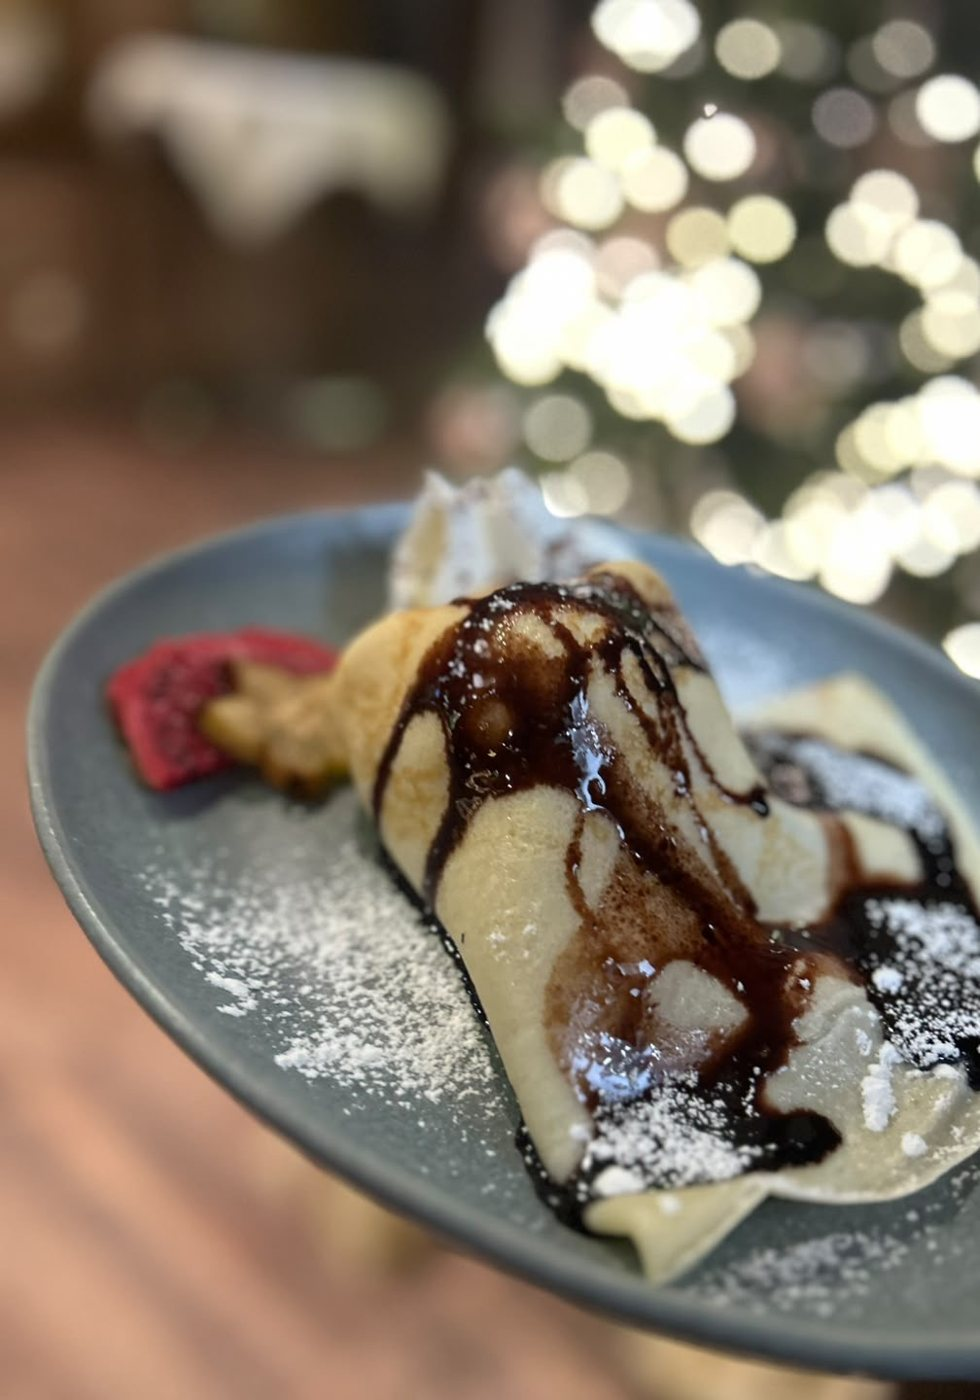
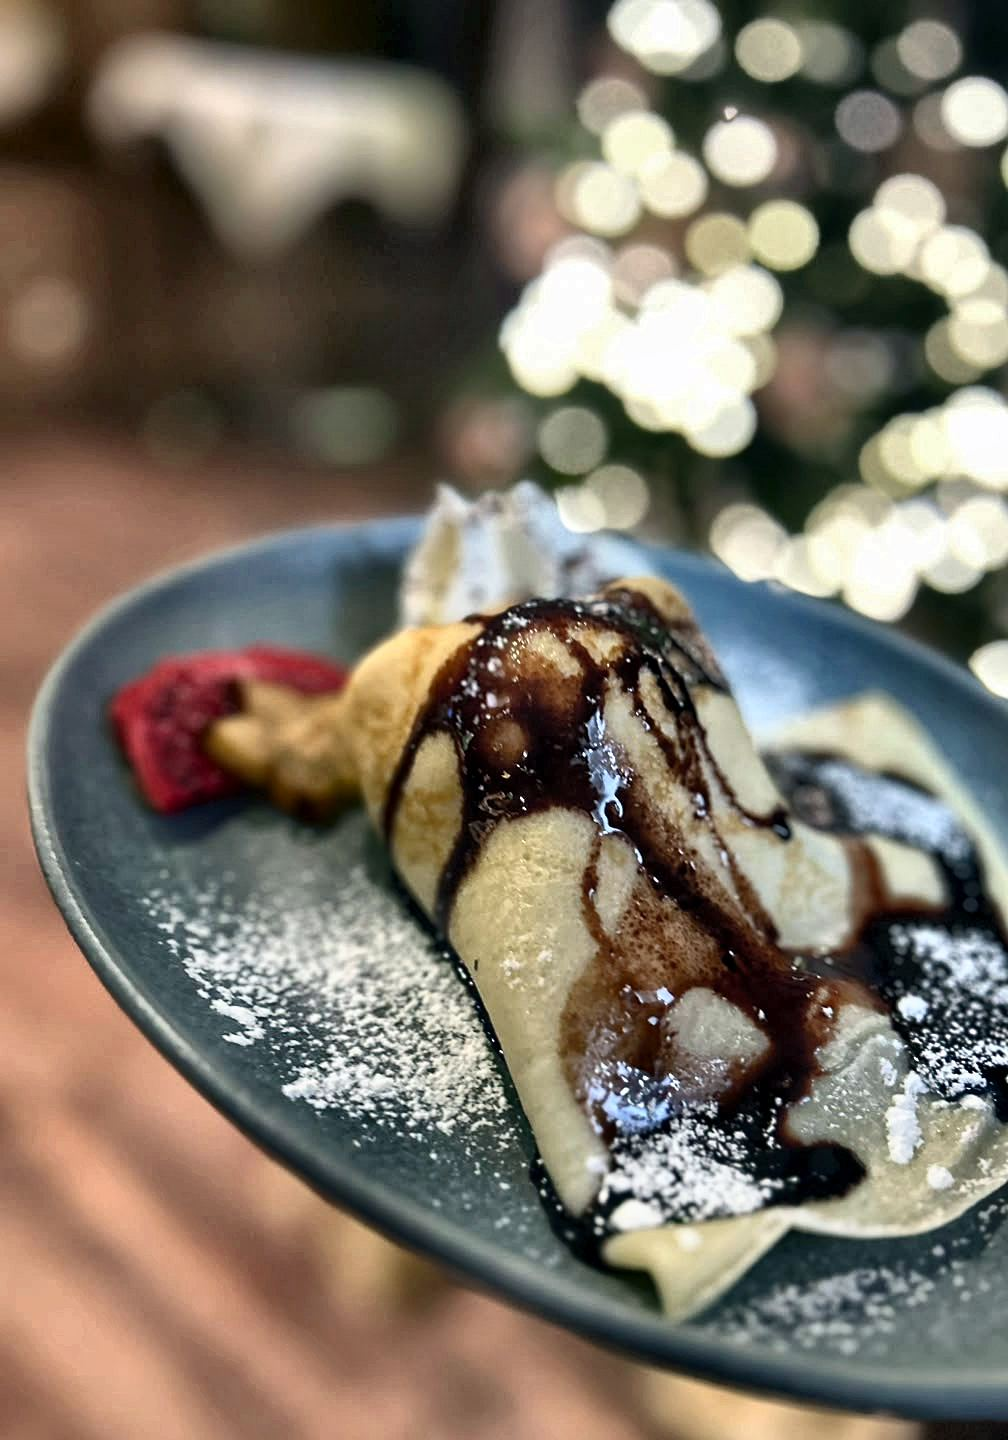
feat: Pitch-Demo landrestaurant-zur-langst online (vorschau/)

diff --git a/vorschau/landrestaurant-zur-langst/fotos.html b/vorschau/landrestaurant-zur-langst/fotos.html
@@ -197,31 +197,31 @@ h1,h2{font-family:var(--display);font-weight:400;font-variation-settings:'opsz' 
     <figure><img src="bilder/galerie/teich-baum-quer.jpg" width="1100" height="825" loading="lazy"
       alt="Das Landrestaurant vom gegenüberliegenden Ufer, gerahmt von einer alten Linde"></figure>
 
-    <figure><img src="bilder/galerie/saal-gedeckt.jpg" width="1400" height="1050" loading="lazy"
+    <figure><img src="bilder/galerie/saal-gedeckt.jpg" width="1100" height="825" loading="lazy"
       alt="Der Saal mit eingedeckten Tischen, weißen Decken und grünen Servietten"></figure>
 
     <figure><img src="bilder/galerie/steak-butter.jpg" width="908" height="1195" loading="lazy"
       alt="Steak mit Kräuterbutter, angerichtet auf hellem Teller"></figure>
 
-    <figure><img src="bilder/galerie/terrasse-tag.jpg" width="1400" height="1050" loading="lazy"
+    <figure><img src="bilder/galerie/terrasse-tag.jpg" width="1100" height="825" loading="lazy"
       alt="Die überdachte Terrasse bei Tag, mit Olivenbaum im Kübel und Blick ins Grüne"></figure>
 
     <figure><img src="bilder/galerie/fontaene-weit.jpg" width="1100" height="825" loading="lazy"
       alt="Die Fontäne im Langst-Teich, dahinter das Fachwerkhaus"></figure>
 
-    <figure><img src="bilder/galerie/desserts-drei.jpg" width="950" height="1400" loading="lazy"
+    <figure><img src="bilder/galerie/desserts-drei.jpg" width="1100" height="1622" loading="lazy"
       alt="Drei Teller mit Schokoküchlein, Vanilleeis und frischen Erdbeeren"></figure>
 
     <figure><img src="bilder/galerie/kamin-neu.jpg" width="1100" height="1467" loading="lazy"
       alt="Der Kaminofen vor der Natursteinwand, darüber die alten Deckenbalken"></figure>
 
-    <figure><img src="bilder/galerie/kaffee-am-teich.jpg" width="1050" height="1400" loading="lazy"
+    <figure><img src="bilder/galerie/kaffee-am-teich.jpg" width="1100" height="1467" loading="lazy"
       alt="Eine Tasse Kaffee auf der Terrassenbrüstung, dahinter der Teich mit der Fontäne"></figure>
 
     <figure><img src="bilder/galerie/teich-baum-hoch.jpg" width="1100" height="1467" loading="lazy"
       alt="Blick vom Ufer über den Teich auf das Haus, im Vordergrund der Stamm einer Linde"></figure>
 
-    <figure><img src="bilder/galerie/theke.jpg" width="1400" height="788" loading="lazy"
+    <figure><img src="bilder/galerie/theke.jpg" width="1100" height="619" loading="lazy"
       alt="Die Theke im Gastraum, mit Holzvertäfelung und Sitzecke"></figure>
 
     <figure><img src="bilder/galerie/fenster-fontaene.jpg" width="1100" height="1467" loading="lazy"
@@ -233,10 +233,10 @@ h1,h2{font-family:var(--display);font-weight:400;font-variation-settings:'opsz' 
     <figure><img src="bilder/galerie/haus-vom-ufer.jpg" width="1100" height="825" loading="lazy"
       alt="Das Haus mit dem gläsernen Anbau, gespiegelt im ruhigen Wasser"></figure>
 
-    <figure><img src="bilder/galerie/terrasse-nacht.jpg" width="1050" height="1400" loading="lazy"
+    <figure><img src="bilder/galerie/terrasse-nacht.jpg" width="1100" height="1467" loading="lazy"
       alt="Die Terrasse am Abend unter der beleuchteten Überdachung"></figure>
 
-    <figure><img src="bilder/galerie/kuchenvitrine.jpg" width="1050" height="1400" loading="lazy"
+    <figure><img src="bilder/galerie/kuchenvitrine.jpg" width="1100" height="1467" loading="lazy"
       alt="Die Kuchenvitrine mit mehreren Kuchen auf Glasetagen"></figure>
 
     <figure><img src="bilder/galerie/tisch-fenster-2.jpg" width="1100" height="1467" loading="lazy"
@@ -245,19 +245,19 @@ h1,h2{font-family:var(--display);font-weight:400;font-variation-settings:'opsz' 
     <figure><img src="bilder/galerie/wasserlauf.jpg" width="1100" height="1467" loading="lazy"
       alt="Die Wasserbecken vor dem Haus, mit Springbrunnen und Trittplatten"></figure>
 
-    <figure><img src="bilder/galerie/steak-kroketten.jpg" width="1050" height="1400" loading="lazy"
+    <figure><img src="bilder/galerie/steak-kroketten.jpg" width="1100" height="1467" loading="lazy"
       alt="Steak in heller Rahmsoße mit Kroketten und Tomate"></figure>
 
     <figure><img src="bilder/galerie/haus-ufer-2.jpg" width="1100" height="825" loading="lazy"
       alt="Das Landrestaurant am Ufer des Langst-Teichs"></figure>
 
-    <figure><img src="bilder/galerie/pfannkuchen.jpg" width="980" height="1400" loading="lazy"
+    <figure><img src="bilder/galerie/pfannkuchen.jpg" width="1008" height="1440" loading="lazy"
       alt="Gefüllter Pfannkuchen mit Schokosoße und Puderzucker"></figure>
 
-    <figure><img src="bilder/galerie/teich-abends.jpg" width="1400" height="1050" loading="lazy"
+    <figure><img src="bilder/galerie/teich-abends.jpg" width="1100" height="825" loading="lazy"
       alt="Der Langst-Teich in der Abendsonne, das Fachwerkhaus spiegelt sich im Wasser"></figure>
 
-    <figure><img src="bilder/galerie/schokokuchen.jpg" width="1050" height="1400" loading="lazy"
+    <figure><img src="bilder/galerie/schokokuchen.jpg" width="1100" height="1467" loading="lazy"
       alt="Schokoküchlein mit Vanilleeis, Sahne und Johannisbeeren"></figure>
   </div>
 

diff --git a/vorschau/landrestaurant-zur-langst/index.html b/vorschau/landrestaurant-zur-langst/index.html
@@ -716,15 +716,15 @@ section[id]{scroll-margin-top:5rem}
 <!-- ===================== DIE TERRASSE ===================== -->
 <section class="abschnitt aussicht" id="terrasse">
   <div class="aussicht-bild">
-    <img src="bilder/terrasse-abend-neu.jpg" width="1344" height="1008" loading="lazy"
-         alt="Die überdachte Terrasse am Abend, warm beleuchtet, davor das Wasserbecken">
+    <img src="bilder/tisch-am-fenster.jpg" width="1500" height="1125" loading="lazy"
+         alt="Ein gedeckter Tisch am Fenster mit zwei Tellern vom Grill, dahinter der Blick über den Teich zur Fontäne">
   </div>
   <div class="aussicht-text">
-    <p class="augbraue">Die Terrasse</p>
+    <p class="augbraue">Wo Sie sitzen</p>
     <h2 data-worte>Der Tisch, an dem das Wasser sitzt.</h2>
     <ul class="aussicht-liste">
-      <li>Überdacht und windgeschützt, auch wenn das Wetter kippt.</li>
-      <li>Schattenplätze an sonnigen Tagen, Blick auf den Teich von jedem Platz.</li>
+      <li>Am Fenster oder draußen auf der Terrasse: Auf den Teich schauen Sie von fast jedem Platz.</li>
+      <li>Die Terrasse ist überdacht und windgeschützt, auch wenn das Wetter kippt.</li>
       <li>Hunde sind willkommen, Kinder sowieso.</li>
     </ul>
   </div>
